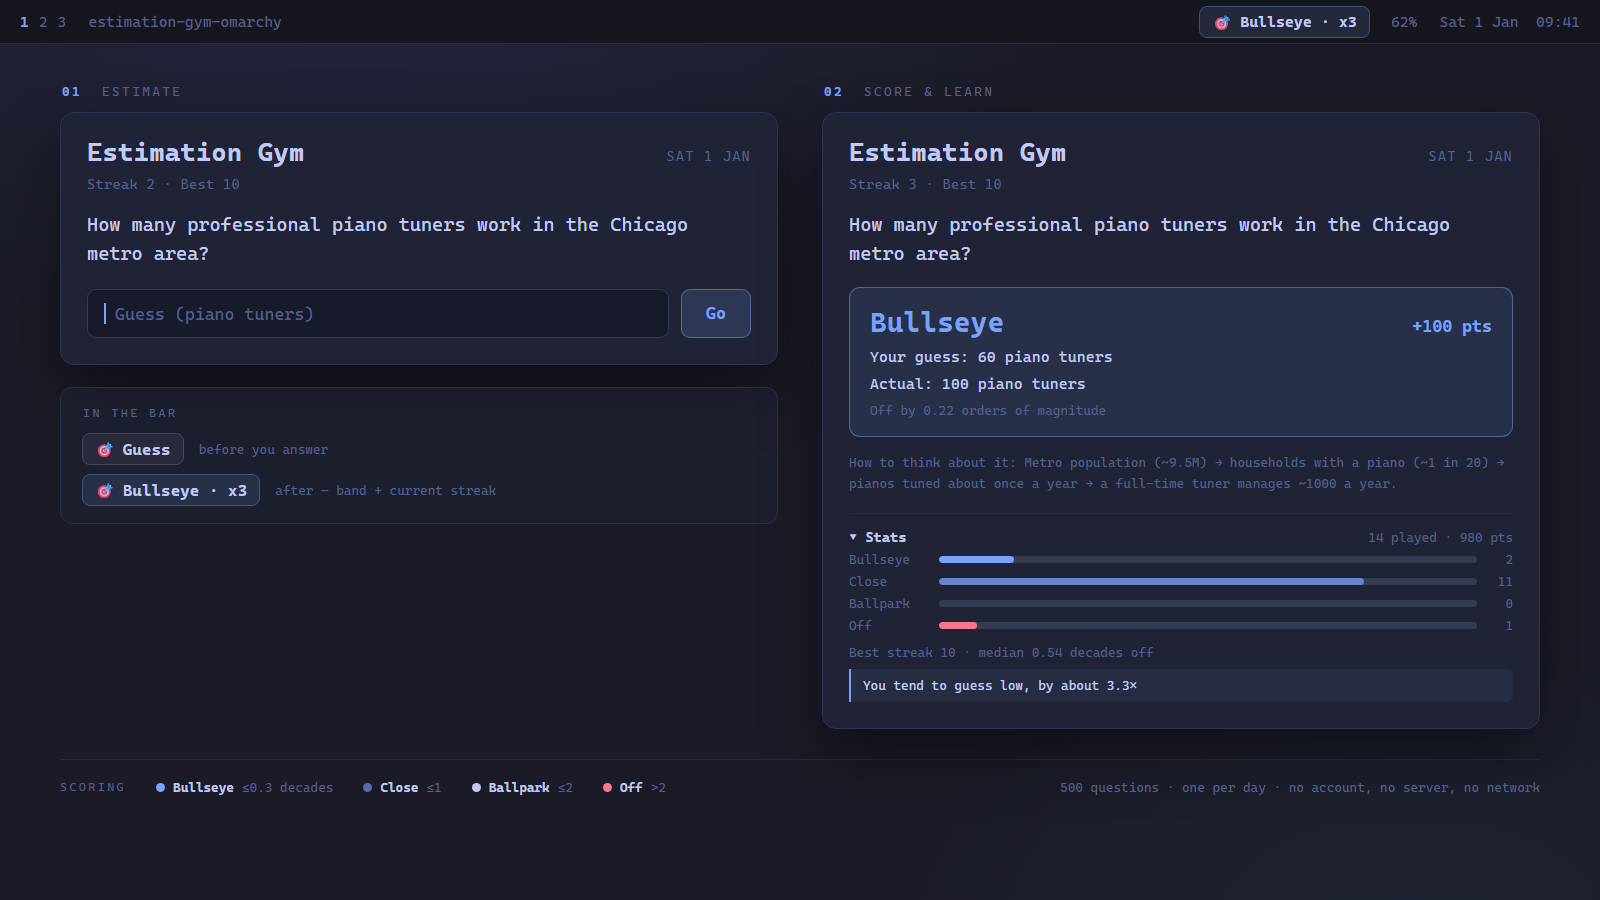
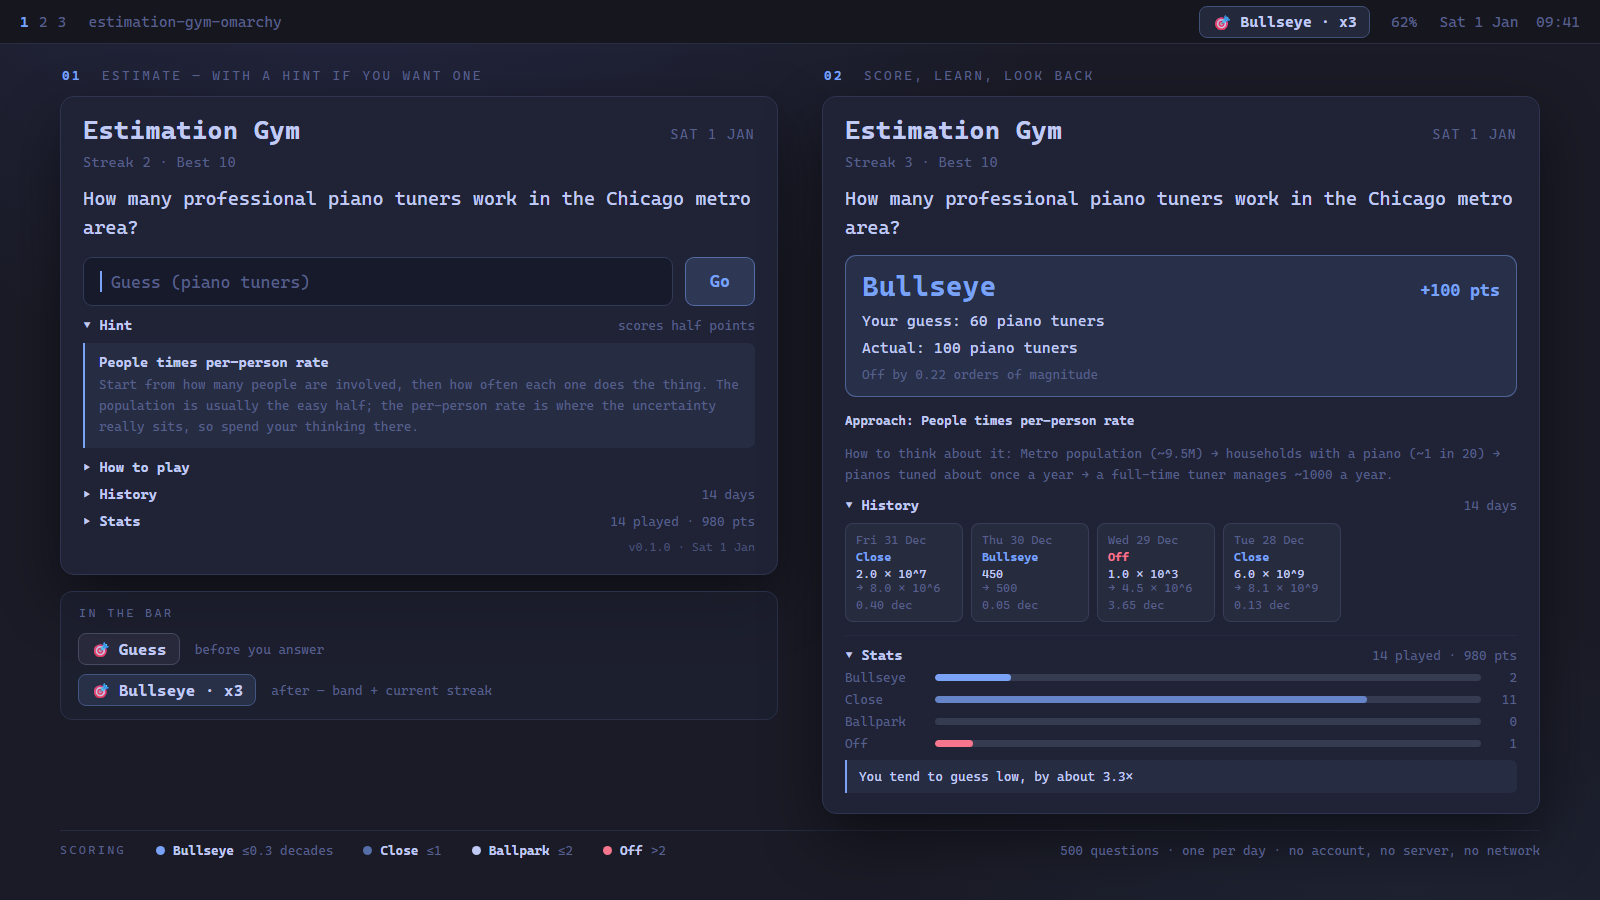
Refresh the marketplace preview for what the plugin now does
The image was last rebuilt when the bank reached 500 questions, and five
feature commits landed after it: the hint system, How to play, the history
strip, the build stamp and the history card fix. None of them appeared in the
picture the marketplace listing shows, which is the shopfront for all of it.

It now shows a hint revealed with its archetype guidance, the How to play,
History and Stats disclosures, the build stamp, the Approach line on a scored
result, and the history strip with real-looking cards. Spacing was tightened
throughout so the scoring legend still fits on the 1600x900 canvas rather than
falling off the bottom.

The alt text described only the guess panel, the result and the bar chip, so it
no longer matched the image either.

Claude-Session: https://claude.ai/code/session_012Dkj5V4mpDSL32HdQsvPkA

diff --git a/README.md b/README.md
@@ -14,7 +14,7 @@ ships with the plugin and your history lives in a single local file. Nothing
 about your play ever leaves your machine, because nothing here ever connects to
 anything.
 
-![Estimation Gym: the guess panel, the scored result, and the bar chip](preview.png)
+![Estimation Gym: the guess panel with a hint revealed, the scored result with its history strip and stats, and the bar chip](preview.png)
 
 ## Install
 
